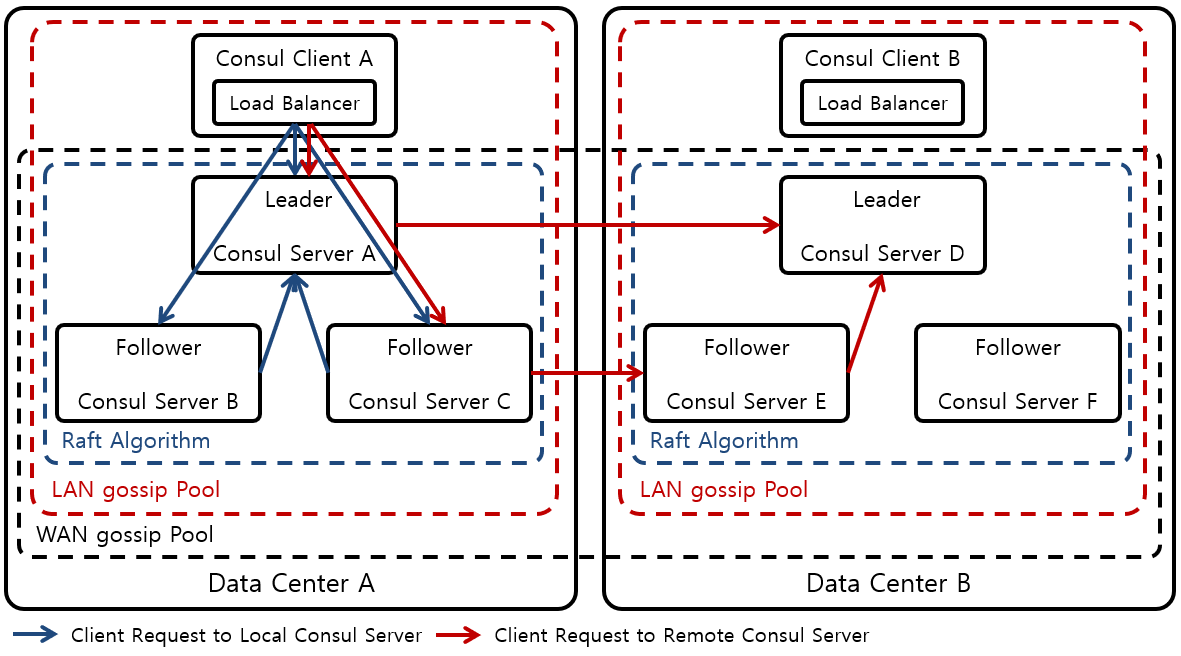
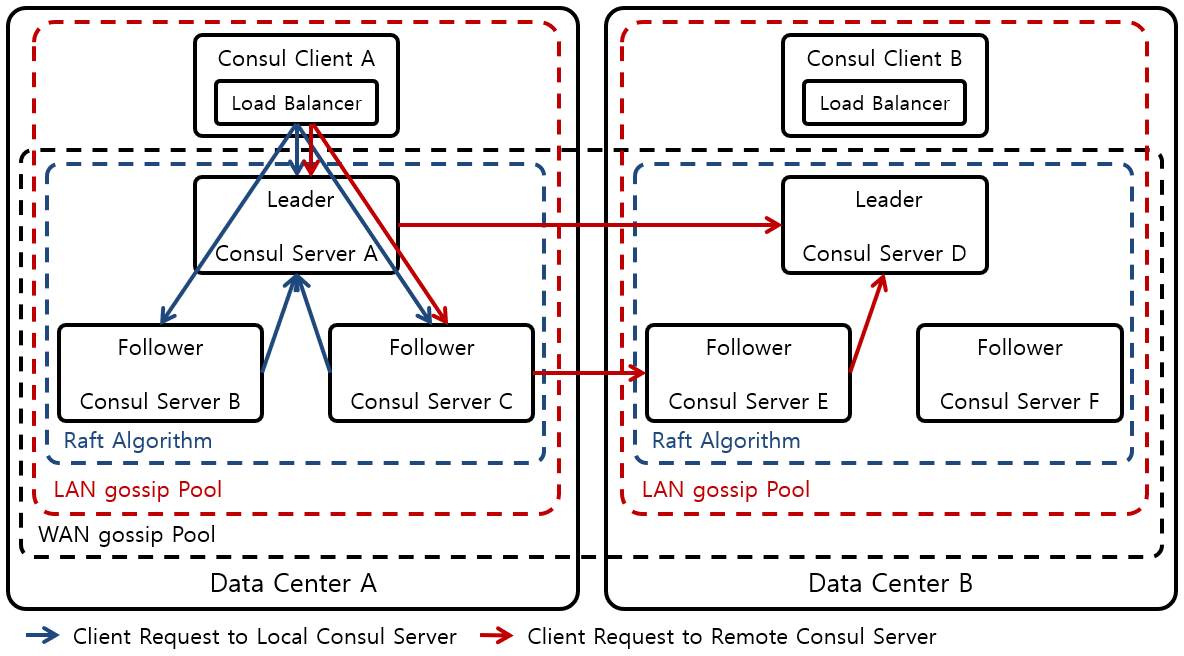
Update

diff --git a/_docs/theory_analysis/Consul.md b/_docs/theory_analysis/Consul.md
@@ -13,7 +13,7 @@ Consul을 분석한다.
 
 #### 1.1. Architecture
 
-![[그림 1] Consul Architecture]({{site.baseurl}}/images/theory_analysis/Consul/Consul_Architecture.PNG){: width="700px"}
+![[그림 1] Consul Architecture]({{site.baseurl}}/images/theory_analysis/Consul/Consul_Architecture.PNG)
 
 ### 2. 참조
 
